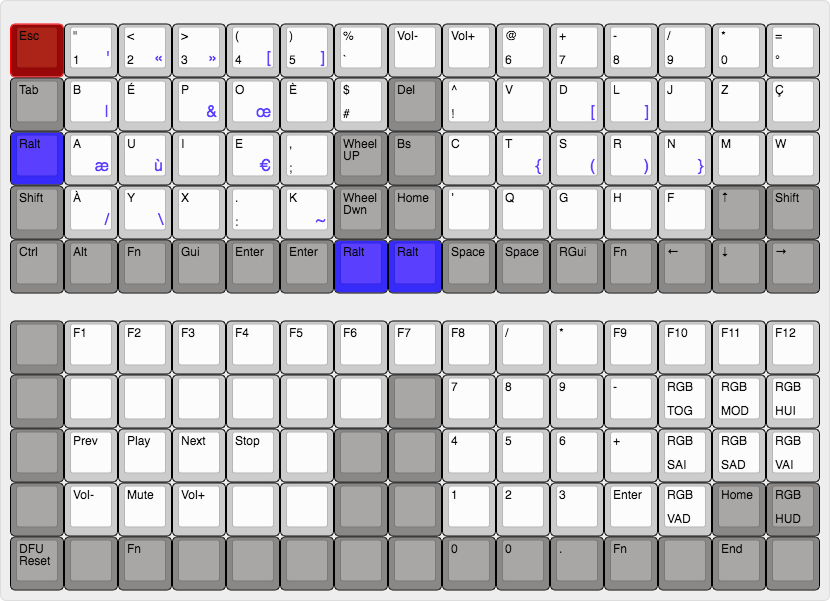
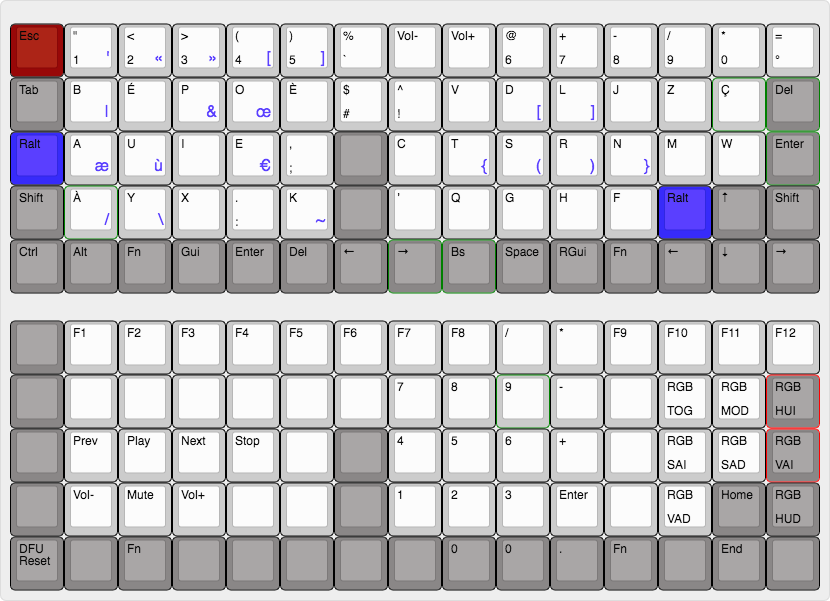
Modification du layout pour rendre plus accessible les touches centrales

diff --git a/layout/c4software_bepo/qmk_layout/keymap.c b/layout/c4software_bepo/qmk_layout/keymap.c
@@ -25,45 +25,45 @@ const uint16_t PROGMEM keymaps[][MATRIX_ROWS][MATRIX_COLS] = {
 /* Native BepoDev for compatible computer
  * .--------------------------------------------------------------------------------------------------------------------------------------.
  * | ESC    | "      | <      | >      | (      | )      | %      | VOL-   | VOL+   | @      | +      | -      | /      | *      | =      |
- * |--------+--------+--------+--------+--------+--------+--------+--------+--------+--------+--------+--------+--------+-----------------|
- * | TAB    | B      | E_ACUT | P      | O      | $      | E_GRAV | DEL    | E_CIRC | V      | D      | L      | J      | Z      | C_CEDIL|
- * |--------+--------+--------+--------+--------+--------+--------+--------+--------+--------+--------+--------+-----------------+--------|
- * | RALT   | A      | U      | I      | E      | ,      | KC_WH_U| BACKSP | C      | T      | S      | R      | N      | M      | W      |
- * |--------+--------+--------+--------+--------+--------+--------+--------+--------+--------+--------+--------------------------+--------|
- * | LSHIFT | A_GRAV | Y      | X      | .      | K      | KC_WH_D| HOME   | ’      | Q      | G      | H      | F      | UP     | RSHIFT |
- * |--------+--------+--------+--------+--------+-----------------+--------+--------+--------+--------+-----------------+--------+--------|
- * | LALT   | LCTRL  | FN     | LGUI   | ENTER  | ENTER  | RALT   | RALT   | SPACE  | SPACE  | RGUI   | FN     | LEFT   | DOWN   | RIGHT  |
+ * |--------+--------+--------+--------+--------+--------+--------+--------+--------+--------+--------+--------+--------+--------+--------|
+ * | TAB    | B      | E_ACUT | P      | O      | E_GRAV | $      | E_CIRC | V      | D      | L      | J      | Z      | C_CEDIL| DEL    |
+ * |--------+--------+--------+--------+--------+--------+--------+--------+--------+--------+--------+--------+--------+--------+--------|
+ * | RALT   | A      | U      | I      | E      | ,      |        | C      | T      | S      | R      | N      | M      | W      | ENTER  |
+ * |--------+--------+--------+--------+--------+--------+--------+--------+--------+--------+--------+--------+--------+--------+--------|
+ * | LSHIFT | A_GRAVE| Y      | X      | .      | K      |        | ’      | Q      | G      | H      | F      | RALT   | UP     | RSHIFT |
+ * |--------+--------+--------+--------+--------+-----------------+--------+--------+--------+--------+--------+--------+--------+--------|
+ * | LCTRL  | LALT   | FN     | LGUI   | ENTER  | DEL    | LEFT   | RIGHT  | BACKSP | SPACE  | RGUI   | FN     | LEFT   | DOWN   | RIGHT  |
  * '--------------------------------------------------------------------------------------------------------------------------------------'
  */
 
  [_BP] = { /* BepoDev */
   { KC_ESC,  BP_DQOT,    BP_LGIL,    BP_RGIL, BP_LPRN, BP_RPRN,    BP_PERCENT, KC_VOLD, KC_VOLU, BP_AT,   BP_PLUS, BP_MINUS, BP_SLASH, BP_ASTR, BP_EQUAL },
-  { KC_TAB,  BP_B,       BP_E_ACUTE, BP_P,    BP_O,    BP_DOLLAR,  BP_E_GRAVE, KC_DEL,  BP_DCRC, BP_V,    BP_D,    BP_L,     BP_J,     BP_Z,    BP_CCED  },
-  { KC_RALT, BP_A,       BP_U,       BP_I,    BP_E,    BP_COMMA,   KC_WH_U,    KC_BSPC, BP_C,    BP_T,    BP_S,    BP_R,     BP_N,     BP_M,    BP_W     },
-  { KC_LSFT, BP_A_GRAVE, BP_Y,       BP_X,    BP_DOT,  BP_K,       KC_WH_D,    KC_HOME, BP_APOS, BP_Q,    BP_G,    BP_H,     BP_F,     KC_UP,   KC_RSFT  },
-  { KC_LALT, KC_LCTL,    MO(_FN),    KC_LGUI, KC_ENT,  KC_ENT,     KC_RALT,    KC_RALT, KC_SPC,  KC_SPC,  KC_RGUI, MO(_FN),  KC_LEFT,  KC_DOWN, KC_RGHT  },
+  { KC_TAB,  BP_B,       BP_E_ACUTE, BP_P,    BP_O,    BP_E_GRAVE, BP_DOLLAR,  BP_DCRC, BP_V,    BP_D,    BP_L,    BP_J,     BP_Z,    BP_CCED,  KC_DEL   },
+  { KC_RALT, BP_A,       BP_U,       BP_I,    BP_E,    BP_COMMA,   KC_TRNS,    BP_C,    BP_T,    BP_S,    BP_R,    BP_N,     BP_M,    BP_W,     KC_ENT   },
+  { KC_LSFT, BP_A_GRAVE, BP_Y,       BP_X,    BP_DOT,  BP_K,       KC_TRNS,    BP_APOS, BP_Q,    BP_G,    BP_H,    BP_F,     KC_RALT, KC_UP,    KC_RSFT  },
+  { KC_LCTL, KC_LALT,    MO(_FN),    KC_LGUI, KC_ENT,  KC_DEL,     KC_LEFT,    KC_RGHT, KC_BSPC, KC_SPC,  KC_RGUI, MO(_FN), KC_LEFT,  KC_DOWN,  KC_RGHT  },
  },
 
 /* FUNCTION
  * .--------------------------------------------------------------------------------------------------------------------------------------.
  * |        | F1     | F2     | F3     | F4     | F5     | F6     | F7     | F8     | P/     | P*     | F9     | F10    | F11    | F12    |
  * |--------+--------+--------+--------+--------+--------+--------+--------+--------+--------+--------+--------+--------+--------+--------|
- * |        |        |        |        |        |        |        |        | P7     | P8     | P9     | -      | RGB_TOG| RGB_MOD| RGB_HUI|
+ * |        |        |        |        |        |        |        | P7     | P8     | P9     | -      |        | RGB_TOG| RGB_MOD| RGB_HUI|
  * |--------+--------+--------+--------+--------+--------+--------+--------+--------+--------+--------+--------+--------+--------+--------|
- * |        | PREV   | PLAY   | NEXT   | STOP   |        |        |        | P4     | P5     | P6     | +      | RGB_SAI| RGB_SAD| RGB_VAI|
+ * |        | PREV   | PLAY   | NEXT   | STOP   |        |        | P4     | P5     | P6     | +      |        | RGB_SAI| RGB_SAD| RGB_VAI|
  * |--------+--------+--------+--------+--------+--------+--------+--------+--------+--------+--------+--------+--------+--------+--------|
- * |        | VOL-   | MUTE   | VOL+   |        |        |        |        | P1     | P2     | P3     | ENT    | RGB_VAD| Home   | RGB_HUD|
+ * |        | VOL-   | MUTE   | VOL+   |        |        |        | P1     | P2     | P3     | ENT    |        | RGB_VAD| Home   | RGB_HUD|
  * |--------+--------+--------+--------+--------+--------+--------+--------+--------+--------+--------+--------+--------+--------+--------|
- * | RESET  |        | FN     |        |        |        |        |        | P0     | P0     | .      | FN     |        | End    |        |
+ * | RESET  |        | FN     |        |        |        |        | P0     | P0     | .      | FN     |        |        | End    |        | 
  * '--------------------------------------------------------------------------------------------------------------------------------------'
  */
  
  [_FN] = { /* FUNCTION */
   { KC_TRNS, KC_F1,   KC_F2,   KC_F3,   KC_F4,   KC_F5,   KC_F6,   KC_F7,   KC_F8,   KC_SLSH, KC_ASTR, KC_F9,   KC_F10,  KC_F11,  KC_F12  },
-  { KC_TRNS, KC_TRNS, KC_TRNS, KC_TRNS, KC_TRNS, KC_TRNS, KC_TRNS, KC_TRNS, KC_P7,   KC_P8,   KC_P9,   KC_MINS, RGB_TOG, RGB_MOD, RGB_HUI },
-  { KC_TRNS, KC_MPRV, KC_MPLY, KC_MNXT, KC_MSTP, KC_TRNS, KC_TRNS, KC_TRNS, KC_P4,   KC_P5,   KC_P6,   KC_PLUS, RGB_SAI, RGB_SAD, RGB_VAI },
-  { KC_TRNS, KC_VOLD, KC_MUTE, KC_VOLU, KC_APP,  KC_TRNS, KC_TRNS, KC_TRNS, KC_P1,   KC_P2,   KC_P3,   KC_ENT,  RGB_VAD, KC_HOME, RGB_HUD },
-  { RESET,   KC_TRNS, MO(_FN), KC_TRNS, KC_TRNS, KC_TRNS, KC_TRNS, KC_TRNS, KC_KP_0, KC_KP_0, KC_PDOT, MO(_FN), KC_TRNS, KC_END,  KC_TRNS },
+  { KC_TRNS, KC_TRNS, KC_TRNS, KC_TRNS, KC_TRNS, KC_TRNS, KC_TRNS, KC_P7,   KC_P8,   KC_P9,   KC_MINS, KC_TRNS, RGB_TOG, RGB_MOD, RGB_HUI },
+  { KC_TRNS, KC_MPRV, KC_MPLY, KC_MNXT, KC_MSTP, KC_TRNS, KC_TRNS, KC_P4,   KC_P5,   KC_P6,   KC_PLUS, KC_TRNS, RGB_SAI, RGB_SAD, RGB_VAI },
+  { KC_TRNS, KC_VOLD, KC_MUTE, KC_VOLU, KC_APP,  KC_TRNS, KC_TRNS, KC_P1,   KC_P2,   KC_P3,   KC_ENT,  KC_TRNS, RGB_VAD, KC_HOME, RGB_HUD },
+  { RESET,   KC_TRNS, MO(_FN), KC_TRNS, KC_TRNS, KC_TRNS, KC_TRNS, KC_KP_0, KC_KP_0, KC_PDOT, MO(_FN), KC_TRNS, KC_TRNS, KC_END,  KC_TRNS },
  }
 };
 

diff --git a/layout/c4software_bepo/qmk_layout/README.md b/layout/c4software_bepo/qmk_layout/README.md
@@ -6,14 +6,14 @@ Layout for Bépo Dev
 /* Native BepoDev for compatible computer
  * .--------------------------------------------------------------------------------------------------------------------------------------.
  * | ESC    | "      | <      | >      | (      | )      | %      | VOL-   | VOL+   | @      | +      | -      | /      | *      | =      |
- * |--------+--------+--------+--------+--------+--------+--------+--------+--------+--------+--------+--------+--------+-----------------|
- * | TAB    | B      | E_ACUT | P      | O      | $      | E_GRAV | DEL    | E_CIRC | V      | D      | L      | J      | Z      | C_CEDIL|
- * |--------+--------+--------+--------+--------+--------+--------+--------+--------+--------+--------+--------+-----------------+--------|
- * | RALT   | A      | U      | I      | E      | ,      | KC_WH_U| BACKSP | C      | T      | S      | R      | N      | M      | W      |
- * |--------+--------+--------+--------+--------+--------+--------+--------+--------+--------+--------+--------------------------+--------|
- * | LSHIFT | A_GRAV | Y      | X      | .      | K      | KC_WH_D| KC_HOME| ’      | Q      | G      | H      | F      | UP     | RSHIFT |
- * |--------+--------+--------+--------+--------+-----------------+--------+--------+--------+--------+-----------------+--------+--------|
- * | LALT   | LCTRL  | FN     | LGUI   | ENTER  | ENTER  | RALT   | RALT   | SPACE  | SPACE  | RGUI   | FN     | LEFT   | DOWN   | RIGHT  |
+ * |--------+--------+--------+--------+--------+--------+--------+--------+--------+--------+--------+--------+--------+--------+--------|
+ * | TAB    | B      | E_ACUT | P      | O      | E_GRAV | $      | E_CIRC | V      | D      | L      | J      | Z      | C_CEDIL| DEL    |
+ * |--------+--------+--------+--------+--------+--------+--------+--------+--------+--------+--------+--------+--------+--------+--------|
+ * | RALT   | A      | U      | I      | E      | ,      |        | C      | T      | S      | R      | N      | M      | W      | ENTER  |
+ * |--------+--------+--------+--------+--------+--------+--------+--------+--------+--------+--------+--------+--------+--------+--------|
+ * | LSHIFT | A_GRAVE| Y      | X      | .      | K      |        | ’      | Q      | G      | H      | F      | RALT   | UP     | RSHIFT |
+ * |--------+--------+--------+--------+--------+-----------------+--------+--------+--------+--------+--------+--------+--------+--------|
+ * | LCTRL  | LALT   | FN     | LGUI   | ENTER  | DEL    | LEFT   | RIGHT  | BACKSP | SPACE  | RGUI   | FN     | LEFT   | DOWN   | RIGHT  |
  * '--------------------------------------------------------------------------------------------------------------------------------------'
  */
  ```
@@ -25,13 +25,13 @@ Layout for Bépo Dev
  * .--------------------------------------------------------------------------------------------------------------------------------------.
  * |        | F1     | F2     | F3     | F4     | F5     | F6     | F7     | F8     | P/     | P*     | F9     | F10    | F11    | F12    |
  * |--------+--------+--------+--------+--------+--------+--------+--------+--------+--------+--------+--------+--------+--------+--------|
- * |        |        |        |        |        |        |        |        | P7     | P8     | P9     | -      | RGB_TOG| RGB_MOD| RGB_HUI|
+ * |        |        |        |        |        |        |        | P7     | P8     | P9     | -      |        | RGB_TOG| RGB_MOD| RGB_HUI|
  * |--------+--------+--------+--------+--------+--------+--------+--------+--------+--------+--------+--------+--------+--------+--------|
- * |        | PREV   | PLAY   | NEXT   | STOP   |        |        |        | P4     | P5     | P6     | +      | RGB_SAI| RGB_SAD| RGB_VAI|
+ * |        | PREV   | PLAY   | NEXT   | STOP   |        |        | P4     | P5     | P6     | +      |        | RGB_SAI| RGB_SAD| RGB_VAI|
  * |--------+--------+--------+--------+--------+--------+--------+--------+--------+--------+--------+--------+--------+--------+--------|
- * |        | VOL-   | MUTE   | VOL+   |        |        |        |        | P1     | P2     | P3     | ENT    | RGB_VAD| Home   | RGB_HUD|
+ * |        | VOL-   | MUTE   | VOL+   |        |        |        | P1     | P2     | P3     | ENT    |        | RGB_VAD| Home   | RGB_HUD|
  * |--------+--------+--------+--------+--------+--------+--------+--------+--------+--------+--------+--------+--------+--------+--------|
- * | RESET  |        | FN     |        |        |        |        |        | P0     | P0     | .      | FN     |        | End    |        |
+ * | RESET  |        | FN     |        |        |        |        | P0     | P0     | .      | FN     |        |        | End    |        | 
  * '--------------------------------------------------------------------------------------------------------------------------------------'
  */
  ```
